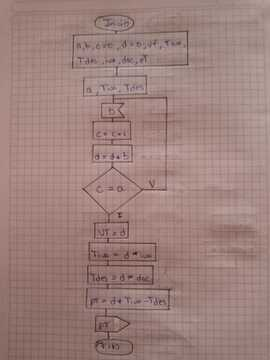
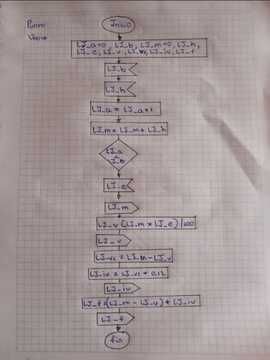
PUNTO DE VENTA-SEGUNDA VERSION

diff --git a/lucasjavier/ACTIVIDAD-B2-C2/LucasJavier-PuntoVenta.cpp b/lucasjavier/ACTIVIDAD-B2-C2/LucasJavier-PuntoVenta.cpp
@@ -1,26 +1,45 @@
+//================================================
+
+//==> Nombre del programa: Punto de Venta
+//==> Archivo : LucasJavier-PuntoVenta.cpp
+//==>Autor: Javier Lucas
+//==>Fecha de elaboración: 2022-05-02
+//==>Fecha ultima actualización: 2022-05-19
+//=================================================
+
 #include <iostream>
 using namespace std;
 int main ()
 {
-	int c=0, a;
-	float e=0, b, d, t, t1, iv, f;
-	cout<<"Ingresar los elementos que desea comprar "<<endl;
-	cin>>a;
+	int LJ_a=0, LJ_b;
+	float LJ_m=0, LJ_h, LJ_e, LJ_v, LJ_v1, LJ_iv, LJ_f;
+	cout<<"Digite el valor de los producto a sumar"<<endl;
+	cin>>LJ_b;
 	do{
-		cout<<"Escriba el valor de la compra "<<c+1<<endl;
-		cin>>b;
-		c=c+1;
-		e=e+b;
-	}while (c<a);
-	cout<<"Escriba el valor del descuento: "<<endl;
-	cin>>e;
-	cout<<"Cantidad de la compra: "<<e<<endl;
-	t=(e*d)/100;
-	cout<<"Valor del descuento: "<<t<<endl;
-	t1=e-t;
-	iv=t1*0.12;
-	cout<<"Valor de IVA: "<<iv<<endl;
-	f=(e-t)+iv;
-	cout<<"Valor final: "<<f<<endl;
+		cout<<"Digite el valor de su compra "<<LJ_a+1<<endl;
+		cin>>LJ_h;
+		LJ_a=LJ_a+1;
+		LJ_m=LJ_m+LJ_h;
+	}while (LJ_a<LJ_b);
+	cout<<"Digite el valor del descuento que utilizara: "<<endl;
+	cin>>LJ_e;
+
+cout<<endl<<"//================================================"<<endl;
+cout<<"//==> Nombre del programa: Punto de Venta"<<endl;
+cout<<"//==> Archivo : LucasJavier-PuntoVenta.cpp"<<endl;
+cout<<"//==>Autor: Javier Lucas"<<endl;
+cout<<"//==>Fecha de elaboración: 2022-05-02"<<endl;
+cout<<"//==>Fecha ultima actualización: 2022-05-19"<<endl;
+cout<<"//================================================="<<endl;
+
+
+	cout<<"Valor bruto de compra: "<<LJ_m<<endl;
+	LJ_v=(LJ_m*LJ_e)/100;
+	cout<<"Valor del descuento: "<<LJ_v<<endl;
+	LJ_v1=LJ_m-LJ_v;
+	LJ_iv=LJ_v1*0.12;
+	cout<<"Valor del IVA: "<<LJ_iv<<endl;
+	LJ_f=(LJ_m-LJ_v)+LJ_iv;
+	cout<<"Valor final: "<<LJ_f<<endl;
 return 0;
 }
